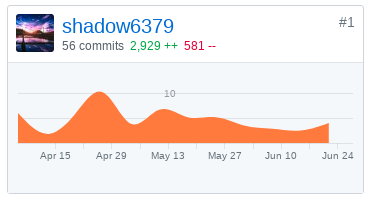
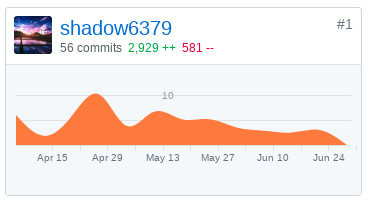
update final report

diff --git a/final_report_15331311.md b/final_report_15331311.md
@@ -26,9 +26,11 @@
 ### 个人分支的 GIT 统计报告（不需要解释原因）- 仅需要提交截图
 ### Dashboard
 ![](./asset/dashboard_git_15331311.png)
+![](./asset/dashboard_git_all.png)
 
 ### Backend
 ![](./asset/backend_git_15331311.png)
+![](./asset/backend_git_all.png)
 
 ### 自认为最得意/或有价值/或有苦劳的工作清单，含简短说明（一句话）
 设计前后端的交互方式
